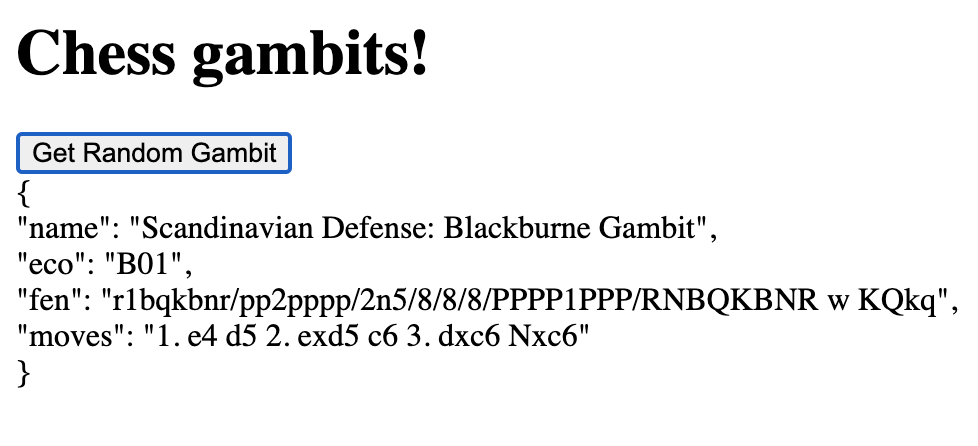
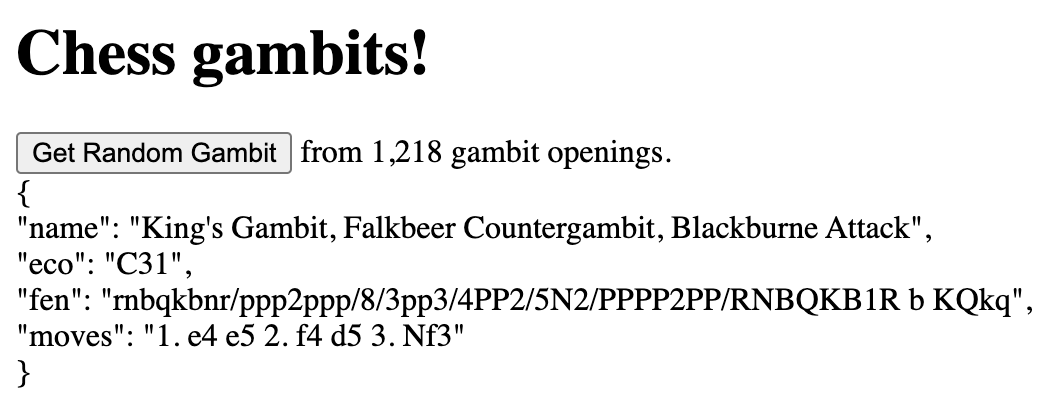
Add files via upload

Changed region(s): [[0.0, 0.466, 0.9816, 0.932], [0.0, 0.2913, 0.6442, 0.4951], [0.0, 0.0583, 0.4601, 0.233]]

diff --git a/gambit_generator.html b/gambit_generator.html
@@ -4,7 +4,7 @@
 </head>
 <body>
     <h1>Chess gambits!</h1>
-    <button onClick="getRandomGambit()">Get Random Gambit</button>
+    <button onClick="getRandomGambit()">Get Random Gambit</button><span> from 1,218 gambit openings.</span>
     <div id="gambit_field"></div>
 </body>
 <script>
